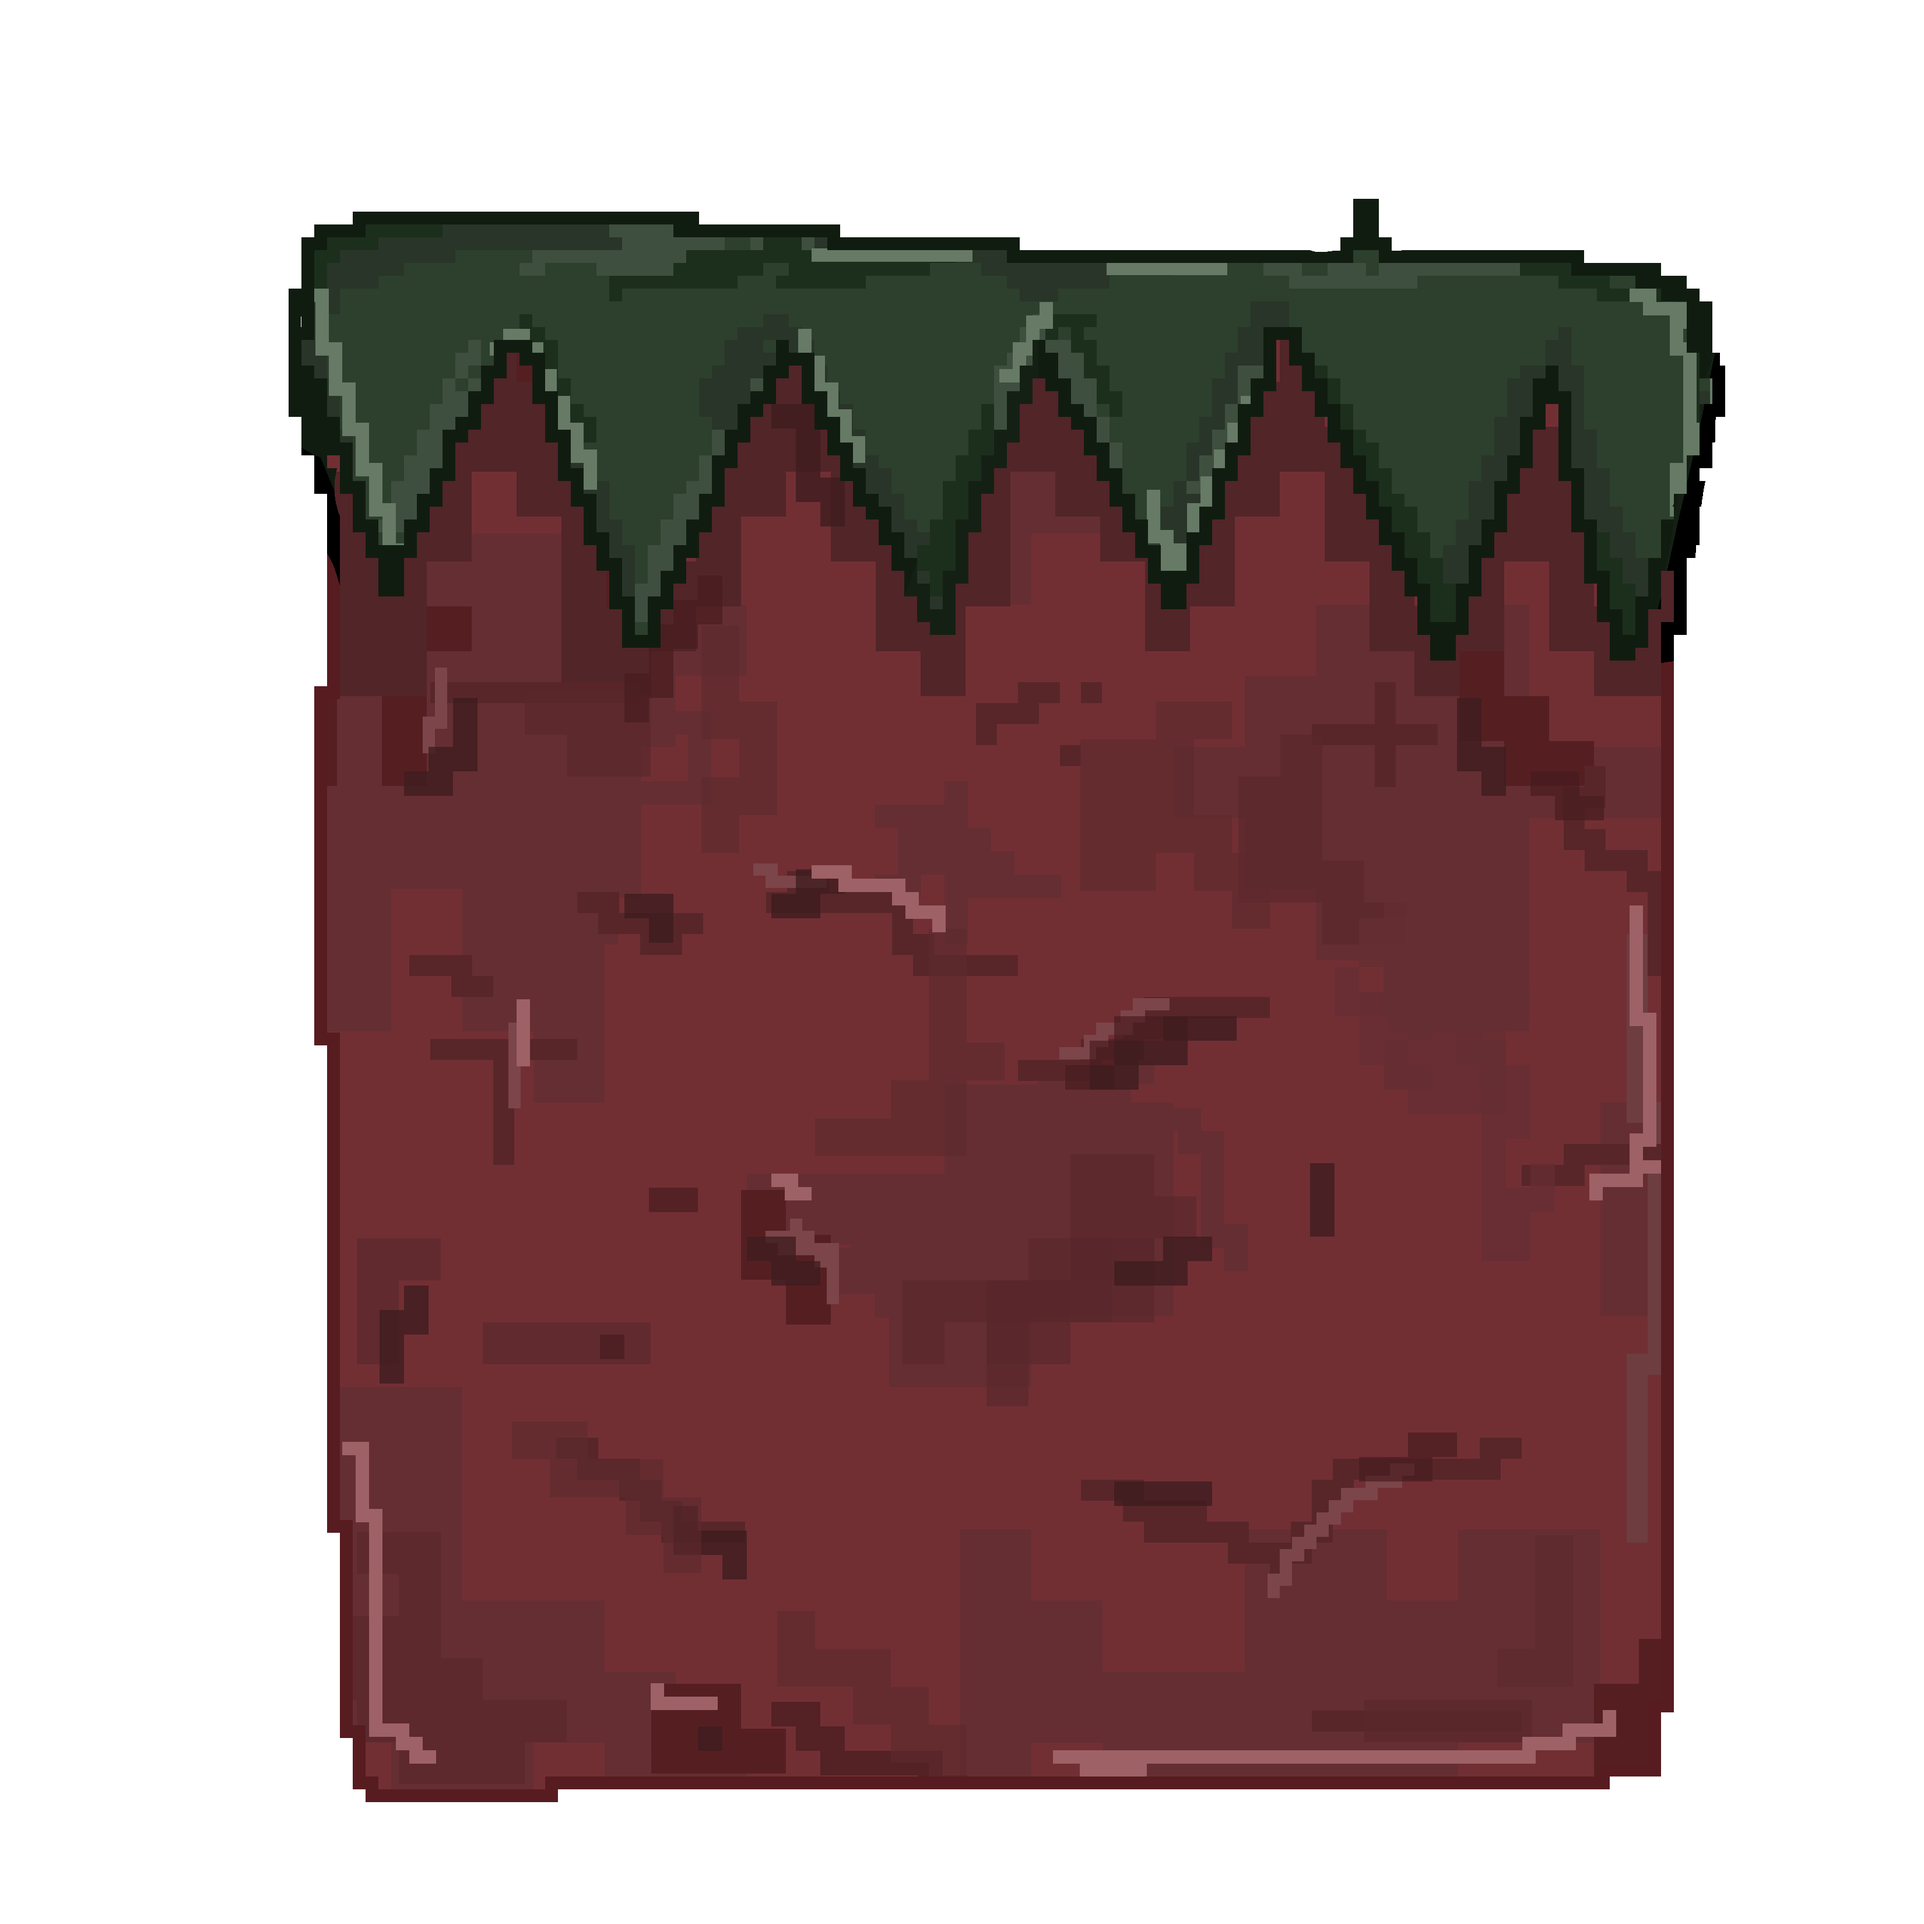
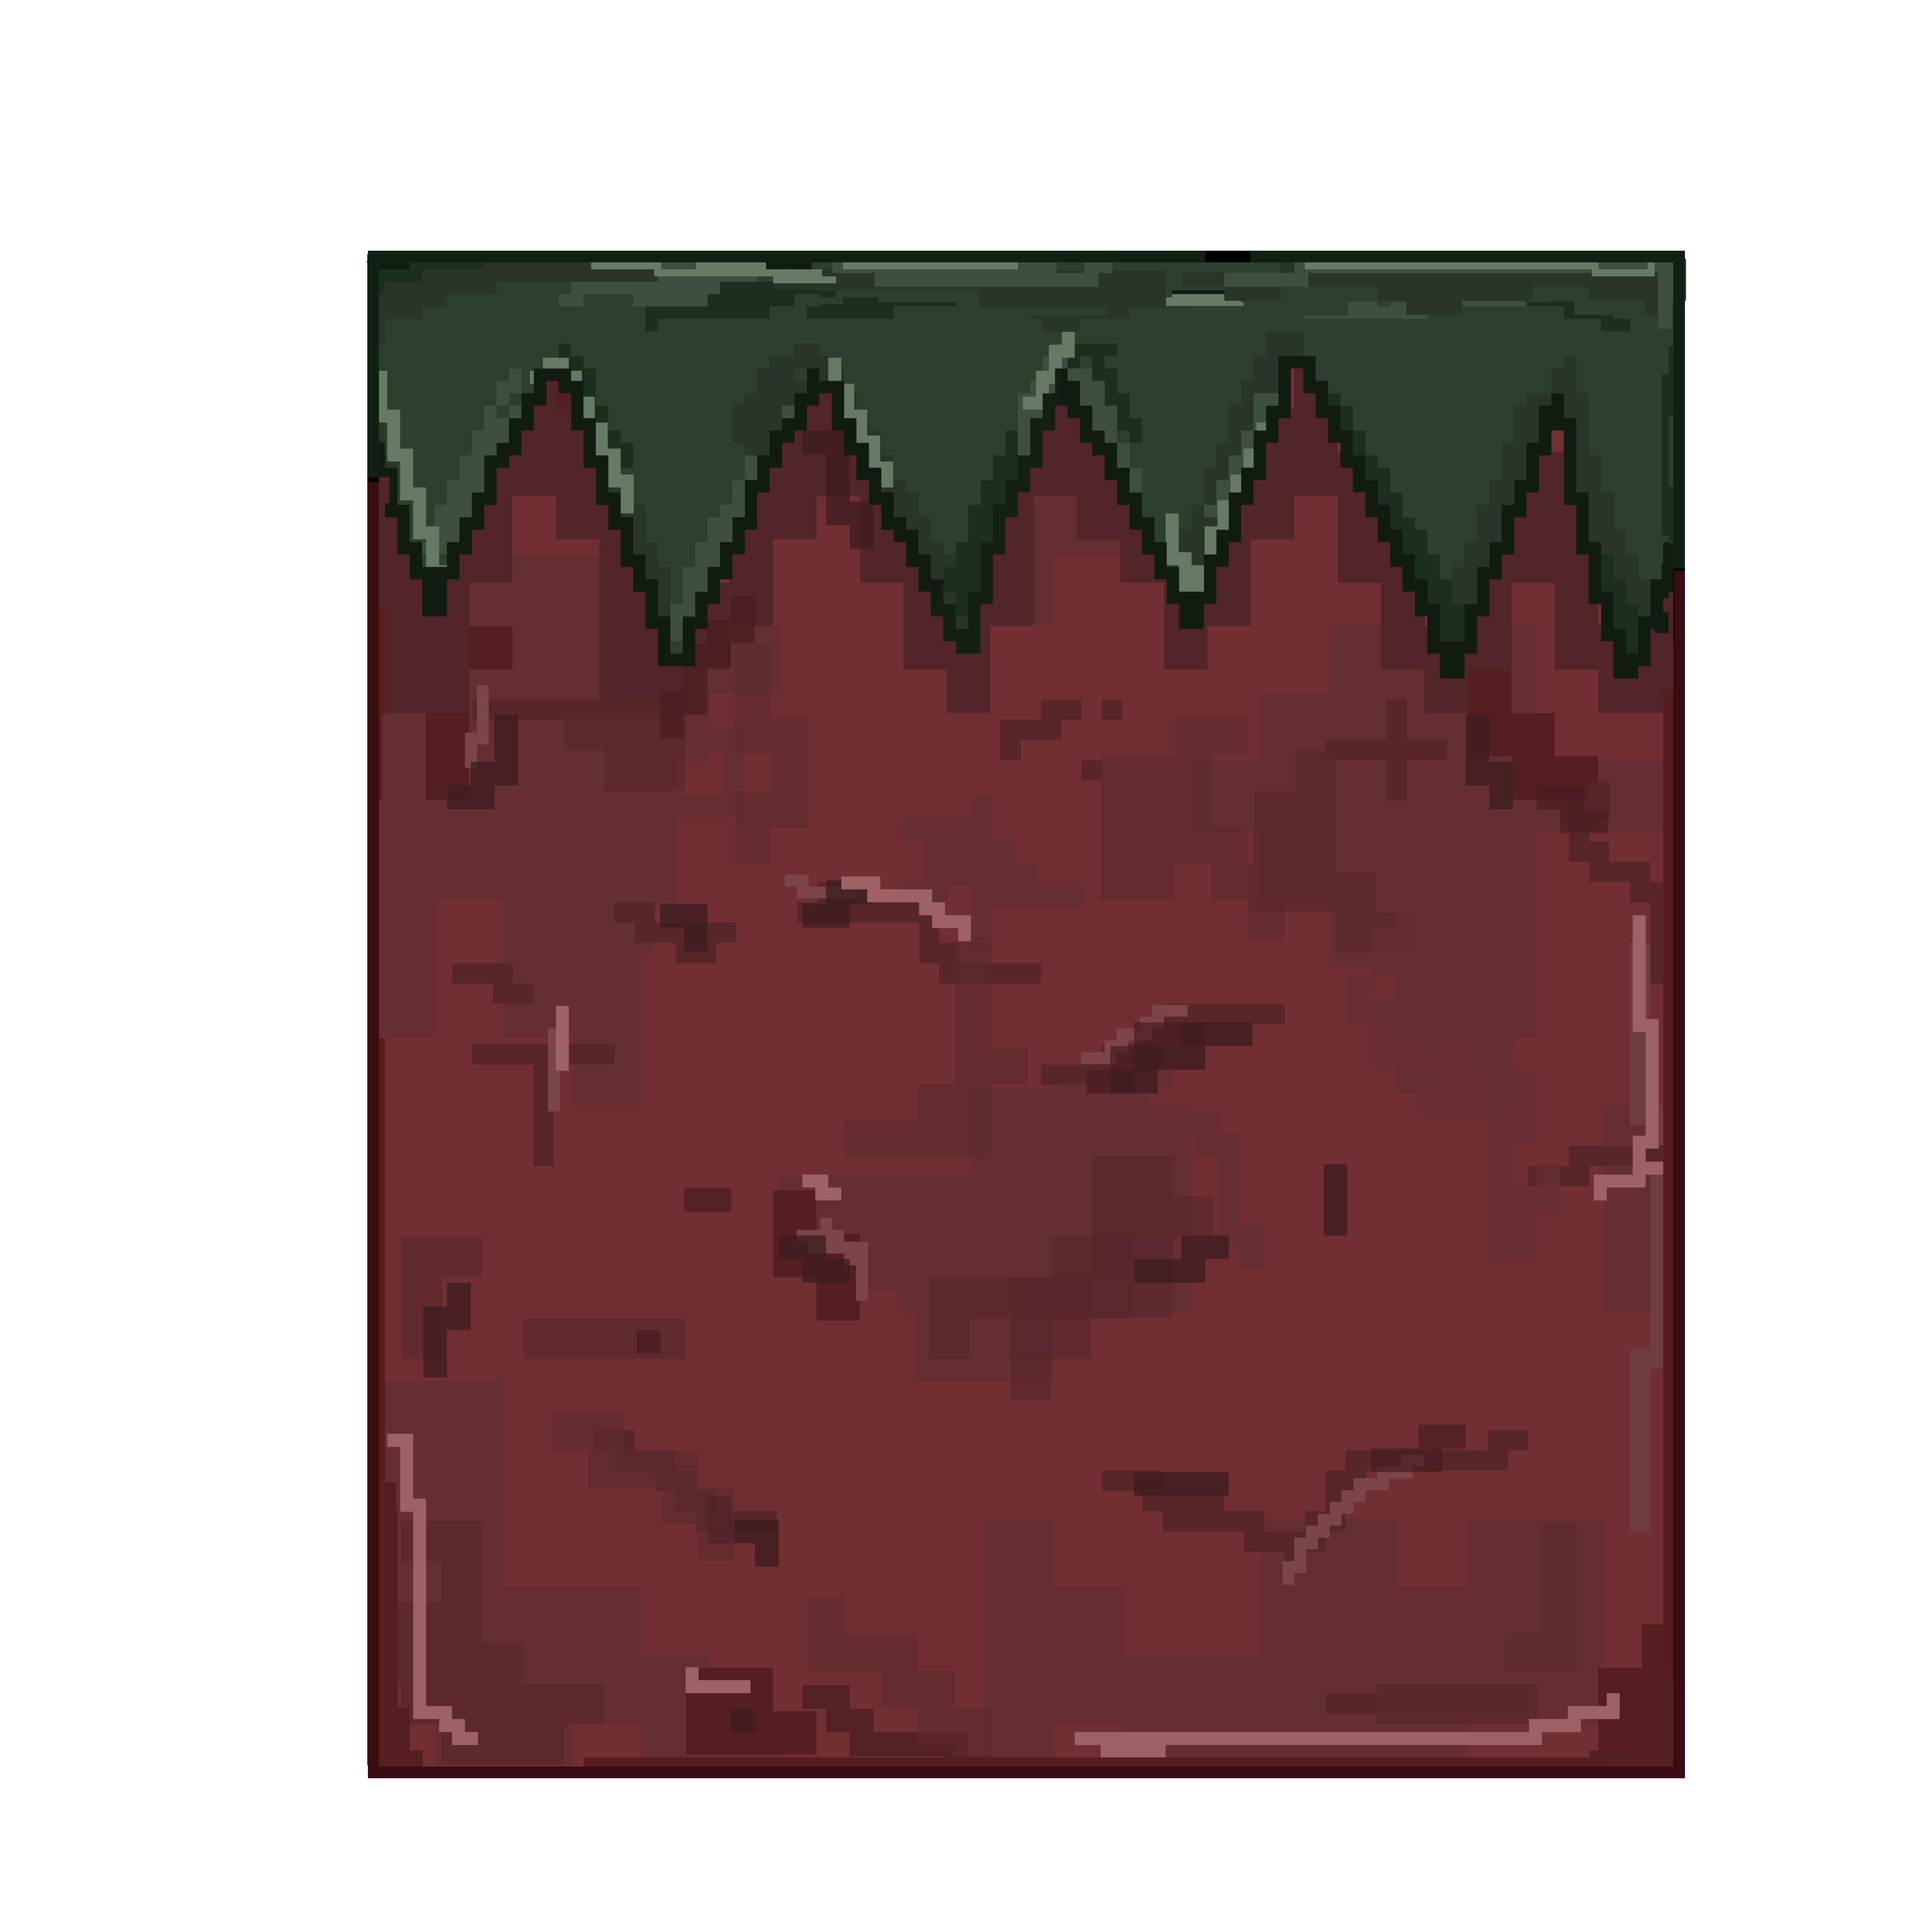
new

diff --git a/Platform.py b/Platform.py
@@ -17,16 +17,17 @@ pygame.mixer.music.play(-1)
 # because if you only use 1, it sometimes doesn't get decoded
 # do it like this instead ("Music\\[song name]")
 # Sound effects
-jump_sfx = pygame.mixer.Sound("SFX\\Jump.mp3")
+jump_sfx = pygame.mixer.Sound("SFX\\P Jump.mp3")
 doublejump_sfx = pygame.mixer.Sound("SFX\\Jump.mp3")
 dash_sfx = pygame.mixer.Sound("SFX\\Dash.mp3")
 
-jump_sfx.set_volume(0.3) 
+jump_sfx.set_volume(0.2) 
 doublejump_sfx.set_volume(0.3)
 dash_sfx.set_volume(0.3)
 
 
 pygame.display.set_caption("Platformer")
+pygame.display.set_icon("MainCharacters\\NinjaFrog\\jump.png")
 
 swidth, sheight = 1200, 700
 FPS = 120
@@ -65,12 +66,11 @@ def load_sprite_sheets(dir1, width, height, direction=False):
     return all_sprites
 
 def get_block(size):
-    path = join("Terrain", "Terrain.png")
+    path = join("Terrain", "Dirt.png")  # direct image, not a sprite sheet
     image = pygame.image.load(path).convert_alpha()
-    surface = pygame.Surface((size, size), pygame.SRCALPHA, 32)
-    rect = pygame.Rect(96, 0, size, size)
-    surface.blit(image, (0, 0), rect)
-    return pygame.transform.scale2x(surface)
+    image = pygame.transform.scale(image, (size, size))
+    return image
+
 
 def get_spike(size): #Figure it out...
     path = join("Terrain", "Spike.png")
@@ -177,30 +177,24 @@ class Player(pygame.sprite.Sprite):
 
 # called once every frame, moves the chr in the right direction, handles the animation and updates it type shi
     def loop(self, fps):
-    # DASH TIMER
+
         if self.is_dashing:
             self.dash_time -= 1
             if self.dash_time <= 0:
                 self.is_dashing = False
 
-        # GRAVITY (only when NOT dashing)
         if not self.is_dashing:
             self.y_vel += min(1, (self.fall_count / fps) * self.GRAVITY)
 
-        # MOVE PLAYER
+
         self.move(self.x_vel, self.y_vel)
 
-        # FALL COUNTER
         self.fall_count += 1
 
-        # DASH COOLDOWN TIMER
         if self.dash_cooldown_timer > 0:
             self.dash_cooldown_timer -= 1
 
-        # ANIMATION
         self.update_sprite()
-
-
 
     def landed(self):
         self.fall_count = 0
@@ -277,6 +271,33 @@ class Spike(Object):
         self.image.blit(spike, (0, 0))
         self.mask = pygame.mask.from_surface(self.image)
 
+class Sign1(Object):
+    def __init__(self, x, y, size):
+        super().__init__(x, y, size, size)
+        image = pygame.image.load(join("Terrain", "Movement Sign.png")).convert_alpha()
+        image = pygame.transform.scale(image, (size, size))
+        self.image.blit(image, (0, 0))
+        self.mask = None
+
+class Sign2(Object):
+    def __init__(self, x, y, size):
+        super().__init__(x, y, size, size)
+        image = pygame.image.load(join("Terrain", "Jump Sign.png")).convert_alpha()
+        image = pygame.transform.scale(image, (size, size))
+        self.image.blit(image, (0, 0))
+        self.mask = None
+
+class Sign3(Object):
+    def __init__(self, x, y, size):
+        super().__init__(x, y, size, size)
+        image = pygame.image.load(join("Terrain", "Dash Sign.png")).convert_alpha()
+        image = pygame.transform.scale(image, (size, size))
+        self.image.blit(image, (0, 0))
+        self.mask = None
+
+
+
+
 
 # to get the background image by tiles instead of just one giant image, oh and also switchable bg or so they say it is
 def get_background(name):
@@ -308,6 +329,8 @@ def draw(window, background, bg_image, player, objects, offset_x, offset_y):
 def handle_vertical_collision(player, objects, dy):
     collided_objects = []
     for obj in objects:
+        if obj.mask is None:
+            continue  # skip non-collidable objects
         if pygame.sprite.collide_mask(player, obj):
             if dy > 0:
                 player.rect.bottom = obj.rect.top
@@ -315,19 +338,21 @@ def handle_vertical_collision(player, objects, dy):
             elif dy < 0:
                 player.rect.top = obj.rect.bottom
                 player.hit_head()
-            
             collided_objects.append(obj)
-
     return collided_objects
+
 
 def collide(player, objects, dx):
     player.move(dx, 0)
     player.update()
     collided_object = None
     for obj in objects:
+        if obj.mask is None:
+            continue
         if pygame.sprite.collide_mask(player, obj):
             collided_object = obj
             break
+
 
     player.move(-dx, 0)
     player.update()
@@ -379,7 +404,7 @@ def main(window):
     player = Player(100, 100, 50, 50)
     floor = [Block(i * block_size, sheight - block_size, block_size) 
              for i in range(-swidth // block_size, (swidth * 2) // block_size)]
-    objects = [*floor, Block(2, sheight - block_size * 2, block_size),
+    collidable_objects = [*floor, Block(2, sheight - block_size * 2, block_size),
                Block(block_size * 3, sheight - block_size * 3, block_size),
                Block(block_size * 5, sheight - block_size * 4, block_size),
                Block(block_size * 3, sheight - block_size * 6, block_size),
@@ -392,8 +417,11 @@ def main(window):
                Block(block_size * 10, sheight - block_size * 14, block_size),
                Block(block_size * 2, sheight - block_size * 14, block_size),
                Block(block_size * -6, sheight - block_size * 14, block_size),
-               Spike(0,0,32)
                ]
+    decor_objects = [Sign1(block_size * -1, sheight - block_size * 3, block_size),
+                     Sign2(block_size * 1, sheight - block_size * 3, block_size),
+                     Sign3(block_size * 3, sheight - block_size * 12, block_size)
+    ]
     
     offset_x = 0
     offset_y = 0
@@ -420,14 +448,14 @@ def main(window):
 
 
         player.loop(FPS)
-        handle_move(player, objects)
+        handle_move(player, collidable_objects)
         offset_x = player.rect.centerx - swidth // 2
         offset_y = player.rect.centery - sheight // 2
 
         if player.y_vel > 10: #cap the fall speed to 10px/s
             player.y_vel = 10
 
-        draw(window, background, bg_image, player, objects, offset_x, offset_y)
+        draw(window, background, bg_image, player, collidable_objects + decor_objects, offset_x, offset_y)
 
     pygame.quit()
     quit()
